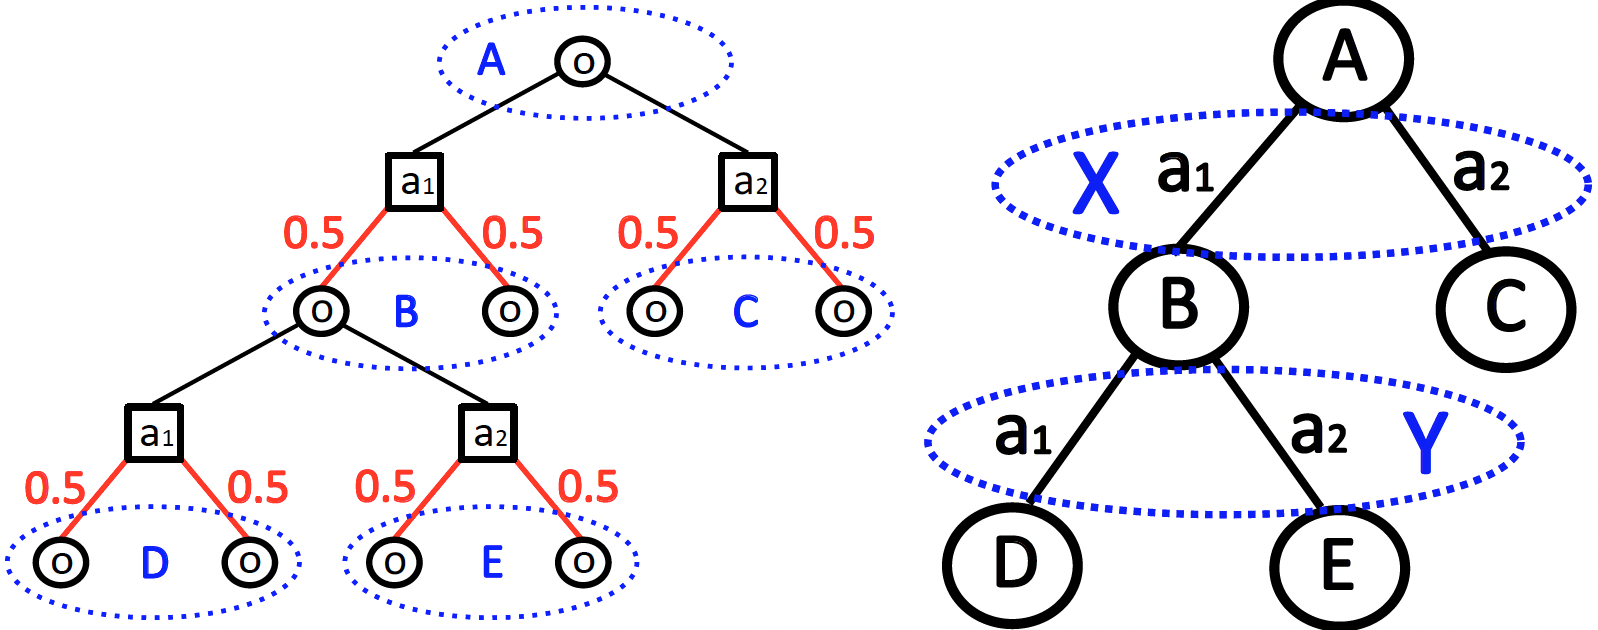
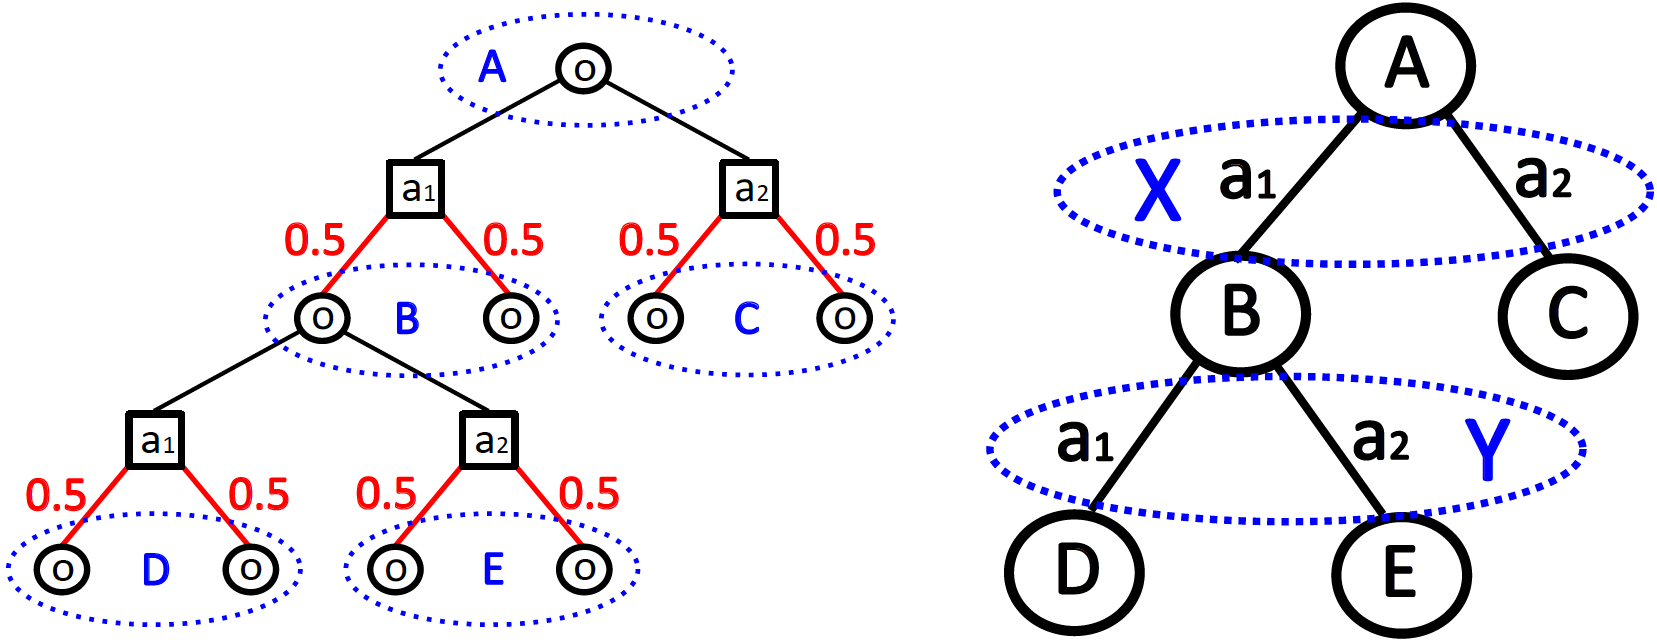
Update pages

diff --git a/_research/marl.md b/_research/marl.md
@@ -30,7 +30,7 @@ author_profile: true
 
 ## Planning and Learning
 
-<img src="https://thomyphan.github.io/images/research/planning_value_function.png" style="float:right; width:250pt;padding-left:10px;"  alt="Planning with Value Function"/>
+<img src="https://thomyphan.github.io/images/research/planning_value_function_2.png" style="float:right; width:250pt;padding-left:10px;"  alt="Planning with Value Function"/>
 *Publications:*  
 [1] [Value Function Approximation for Distributed Planning](https://thomyphan.github.io/publication/2018-06-01-aamas-phan)  
 [2] [Distributed Planning for Multi-Agent Policy Approximation](https://thomyphan.github.io/publication/2019-05-01-aamas-phan)  

diff --git a/_research/planning.md b/_research/planning.md
@@ -18,7 +18,7 @@ author_profile: true
 
 ## Planning and Learning
 
-<img src="https://thomyphan.github.io/images/research/planning_value_function.png" style="float:right; width:250pt;padding-left:10px;"  alt="Planning with Value Function"/>
+<img src="https://thomyphan.github.io/images/research/planning_value_function_2.png" style="float:right; width:250pt;padding-left:10px;"  alt="Planning with Value Function"/>
 *Publications:*  
 [1] [Value Function Approximation for Distributed Planning](https://thomyphan.github.io/publication/2018-06-01-aamas-phan)  
 [2] [Distributed Planning for Multi-Agent Policy Approximation](https://thomyphan.github.io/publication/2019-05-01-aamas-phan)  
